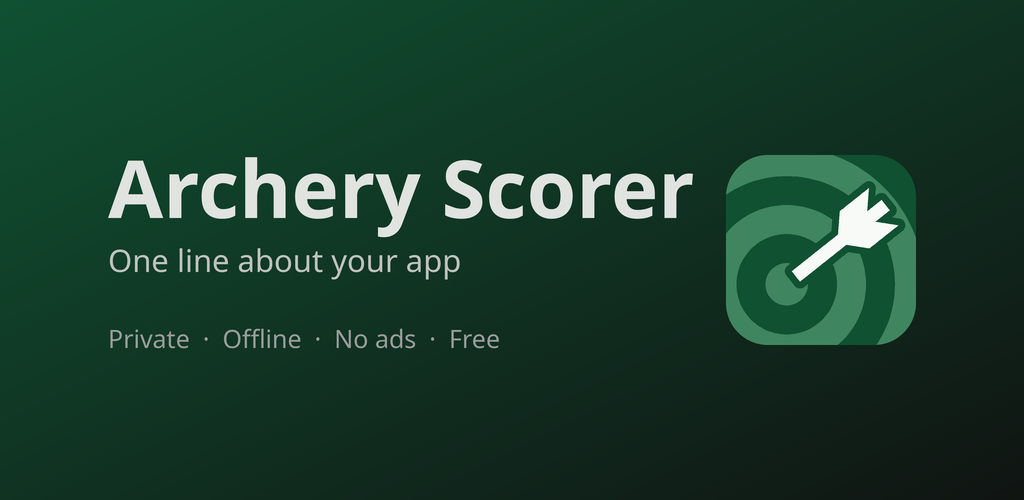
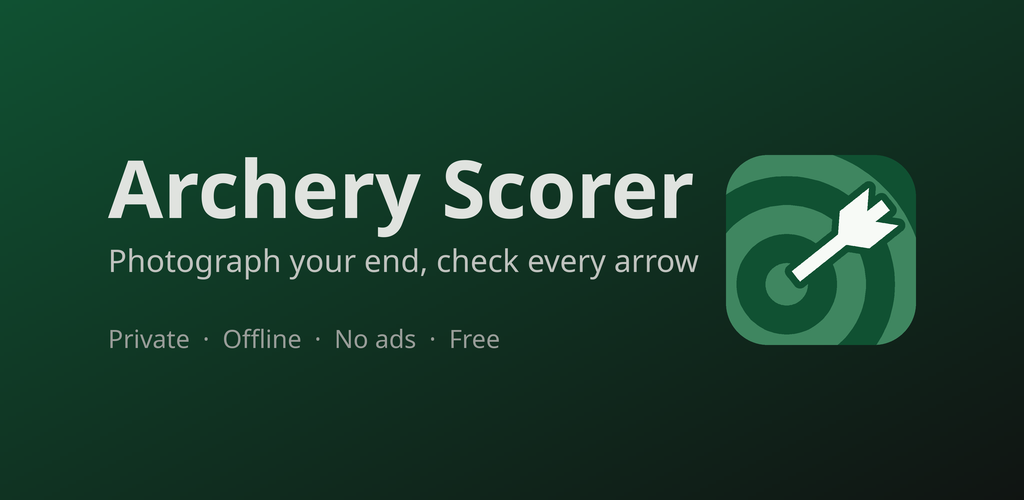
chore(art): feature graphics in English and Polish with the new mark

Changed region(s): [[0.0938, 0.48, 0.6875, 0.57]]

diff --git a/art/make-feature-graphic.py b/art/make-feature-graphic.py
@@ -43,7 +43,8 @@ ART = Path(__file__).parent
 # Edit them; everything else is layout. Translate from the English, per docs/translator-brief.md.
 APP_NAME = "Archery Scorer"
 COPY = {
-    None: ("One line about your app", "Private  ·  Offline  ·  No ads  ·  Free"),
+    None: ("Photograph your end, check every arrow", "Private  ·  Offline  ·  No ads  ·  Free"),
+    "pl": ("Sfotografuj serię, sprawdź każdą strzałę", "Prywatnie  ·  Offline  ·  Bez reklam  ·  Za darmo"),
 }
 BACKGROUND = ART / "feature-background.png"
 W, H = 1024, 500

diff --git a/docs/DOD.md b/docs/DOD.md
@@ -37,9 +37,9 @@ close. Whenever `APP_SCHEMA_VERSION` changes, all five hold before the release g
 - [x] **Delete what the app does not need.** Room, backup export/restore and reminders went 2026-11-11;
       photos and the tip stay.
 - [x] **Decide `minSdk` deliberately, before launch.** Kept at 26 (owner, 2026-11-12).
-- [ ] **Regenerate the feature graphic** once the listing copy is written:
-      `python3 art/make-feature-graphic.py`. Deferred to Phase N (`phase-0.md` section 4): it already
-      carries the arrow mark, but its tagline is still the template's placeholder.
+- [x] **Regenerate the feature graphic** once the listing copy is written:
+      `python3 art/make-feature-graphic.py`. Done 2026-11-17 with the arrow mark, English and Polish,
+      taglines from the listing's short descriptions; `play-metadata.py` uploads them with the listing.
 - [x] **Replace the placeholder domain.** Items deleted 2026-11-11; the home screen is an empty
       **Score an end** screen.
 - [x] **Rewrite `scripts/edge-to-edge.py`'s SCENES** against your screens. Rewritten in the strip;
